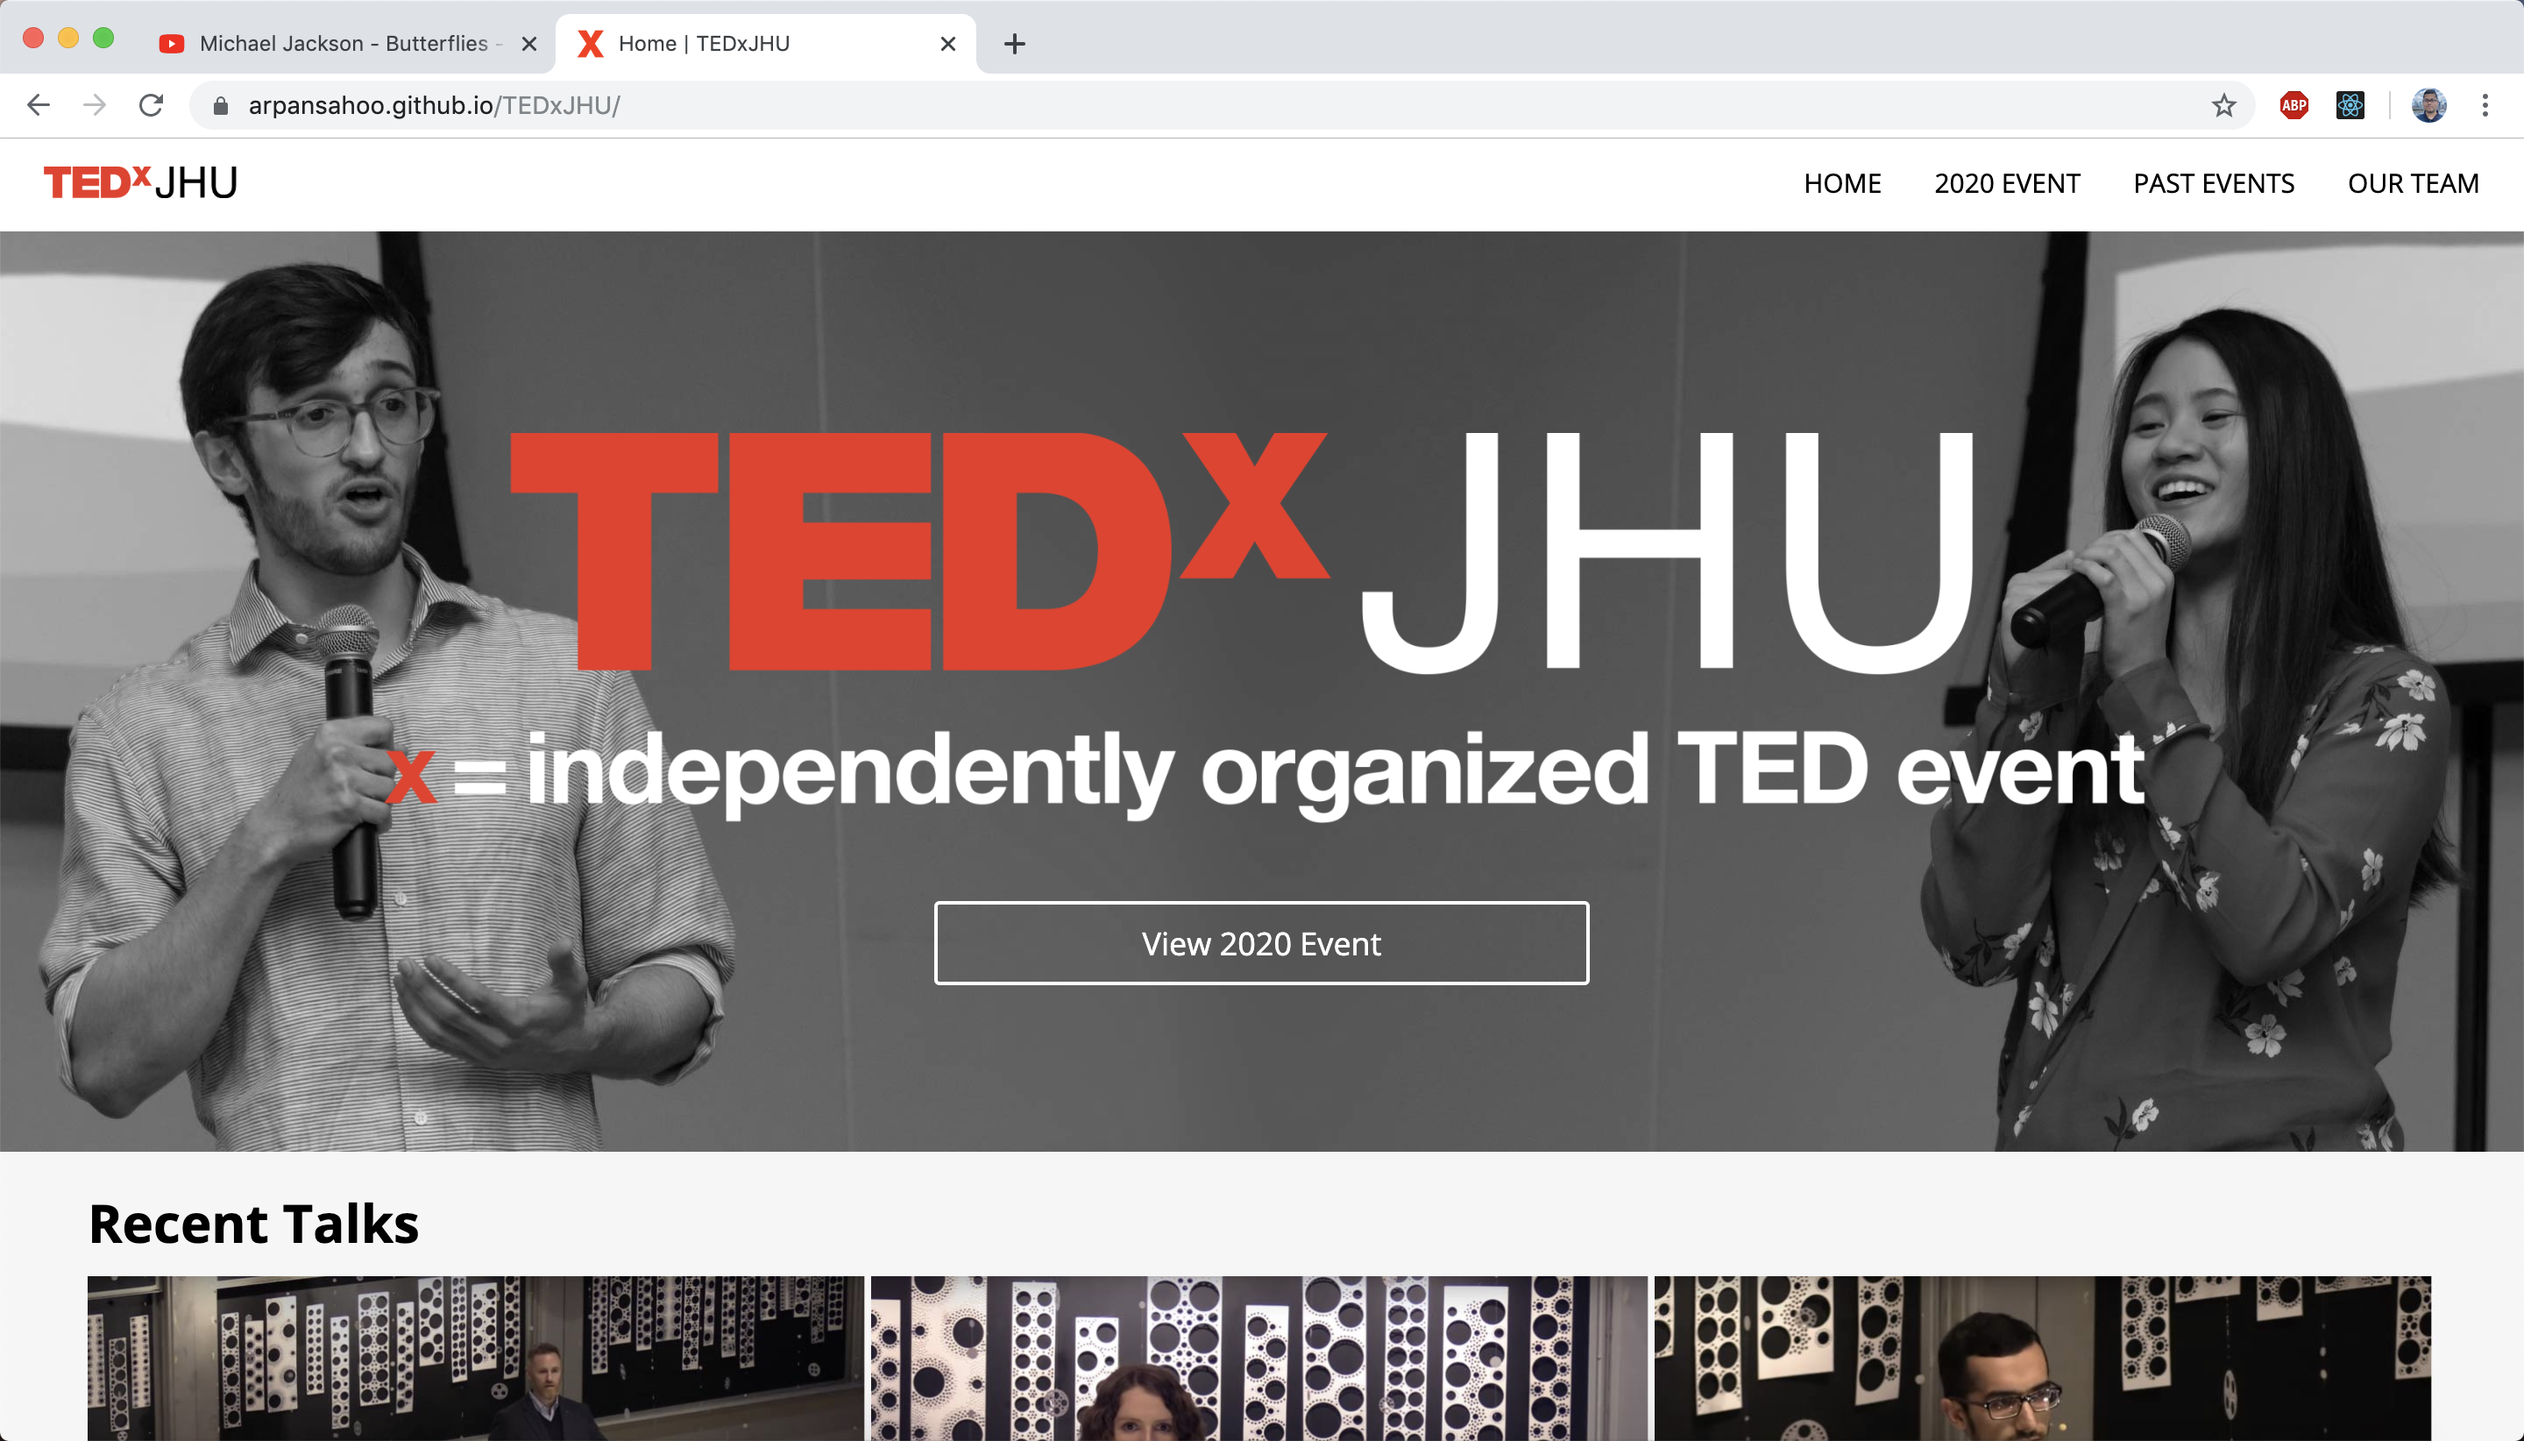
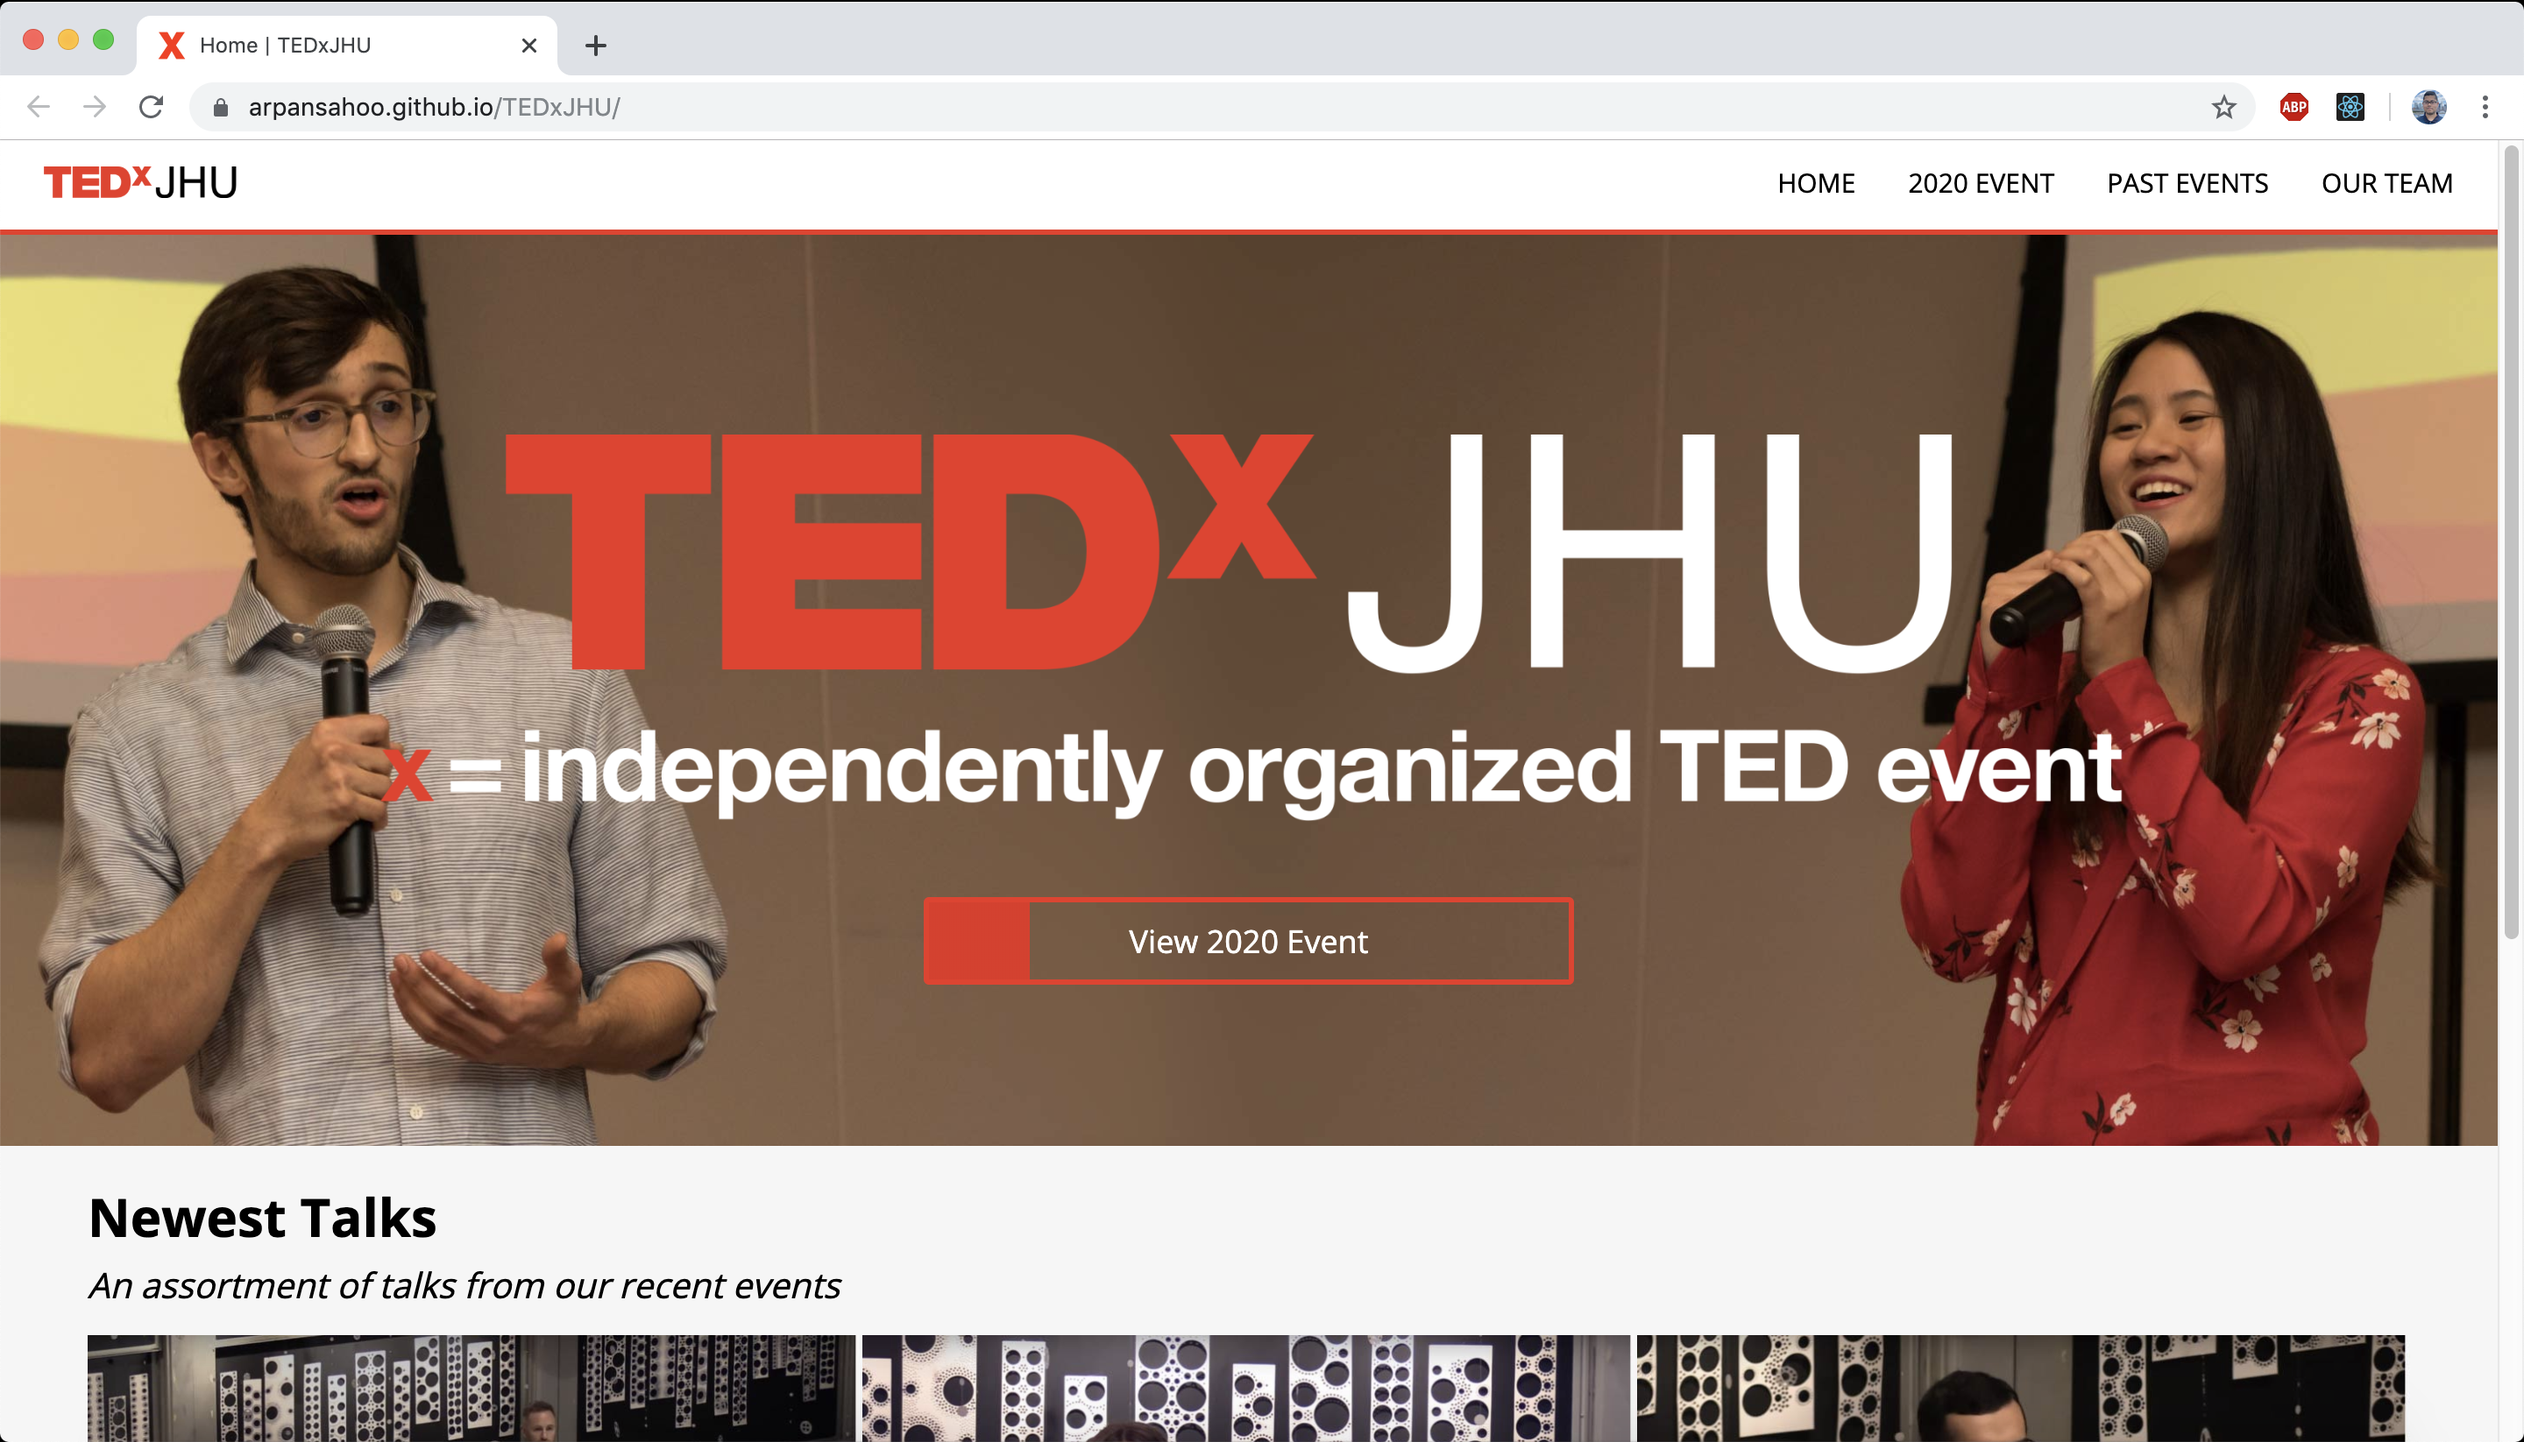
README update

diff --git a/src/components/layout.css b/src/components/layout.css
@@ -25,15 +25,16 @@ html {
 .header {
   overflow: hidden;
   background-color: white;
-  padding: 6px 10px;
-  box-shadow: 0 0 3px rgba(0,0,0,.2);
+  padding: 5px 10px;
+  border-bottom: 3px solid #EE3223;
+  box-shadow: 0 0 12px rgba(0,0,0,.15);
 }
 
 .header a {
   float: left;
   color: black;
   text-align: center;
-  padding: 10px 15px 10px 15px;
+  padding: 10px 15px;
   text-decoration: none;
   font-size: 15px; 
   font-weight: 400;
@@ -196,7 +197,13 @@ html {
 .recent-talks-header {
   font-size: 30px;
   font-weight: 700;
-  padding-bottom: 10px;
+  padding-bottom: 5px;
+}
+
+.recent-talks-subheader {
+  font-size: 20px;
+  padding-bottom: 15px;
+  font-style: italic;
 }
 
 .recent-talks-videos {
@@ -299,11 +306,12 @@ html {
 
   .header-small {
     display: grid;
+    margin-top: 5px;
   }
 
   .header a {
-    margin-top: 5px;
-    padding: 5px 8px 5px 8px;
+    margin-top: 0px;
+    padding: 5px 8px;
     font-size: 12px; 
   }
   

diff --git a/src/pages/index.js b/src/pages/index.js
@@ -56,7 +56,8 @@ const IndexPage = () => (
     </div>
 
     <div class="recent-talks">
-        <p class="recent-talks-header">Recent Talks</p>
+        <p class="recent-talks-header">Newest Talks</p>
+        <p class="recent-talks-subheader">An assortment of talks from our recent events</p>
         <Slider {...settings}>
           <div class="recent-talks-videos"> 
             <a href="https://youtu.be/2Hubvs2TiL4" target="_blank" rel="noopener noreferrer">

diff --git a/src/components/team.css b/src/components/team.css
@@ -1,6 +1,6 @@
 .team-content {
     padding-left: 50px;
-    padding-right: 25px;
+    padding-right: 5px;
     padding-top: 20px;
     padding-bottom: 15px;
 }
@@ -56,7 +56,7 @@
 .alt {
     transform: scale(1.05);
     margin-right: 5%;
-    margin-bottom: 4.5%;
+    margin-bottom: 5%;
     cursor: default;
     padding: 0px;
     background-color: #242424;

diff --git a/README.md b/README.md
@@ -3,9 +3,9 @@
 This is the repository for the official TEDxJHU website, built using GatbsyJS. You can visit the website here: [TEDxJHU](https://arpansahoo.github.io/TEDxJHU/).
 
 ## Preview
-Preview 1
+### Preview 1
 ![](/preview.png)
 
-Preview 2
+### Preview 2
 ![](/preview2.png)
 
